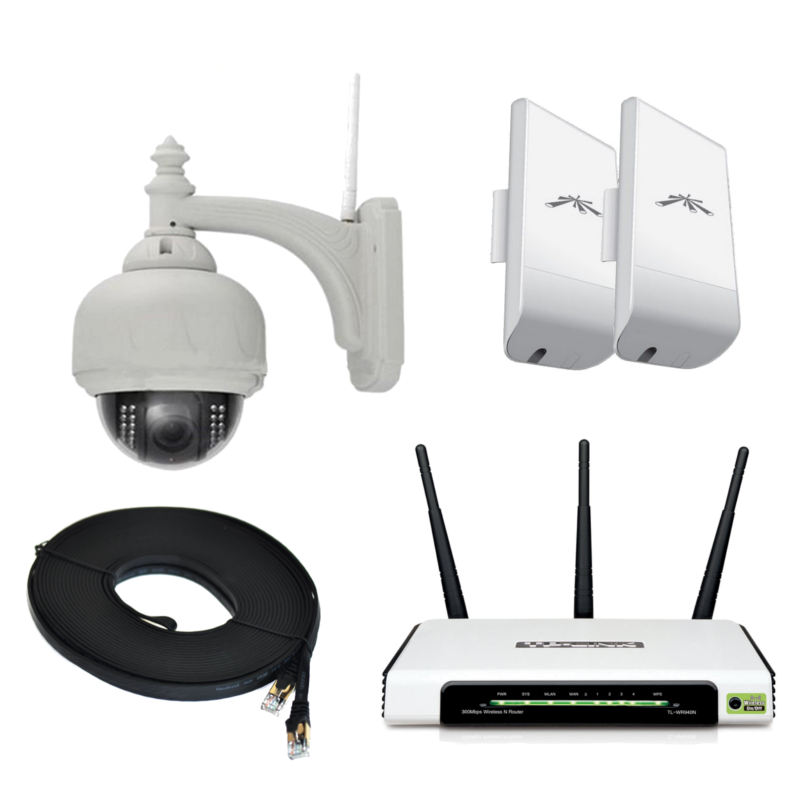
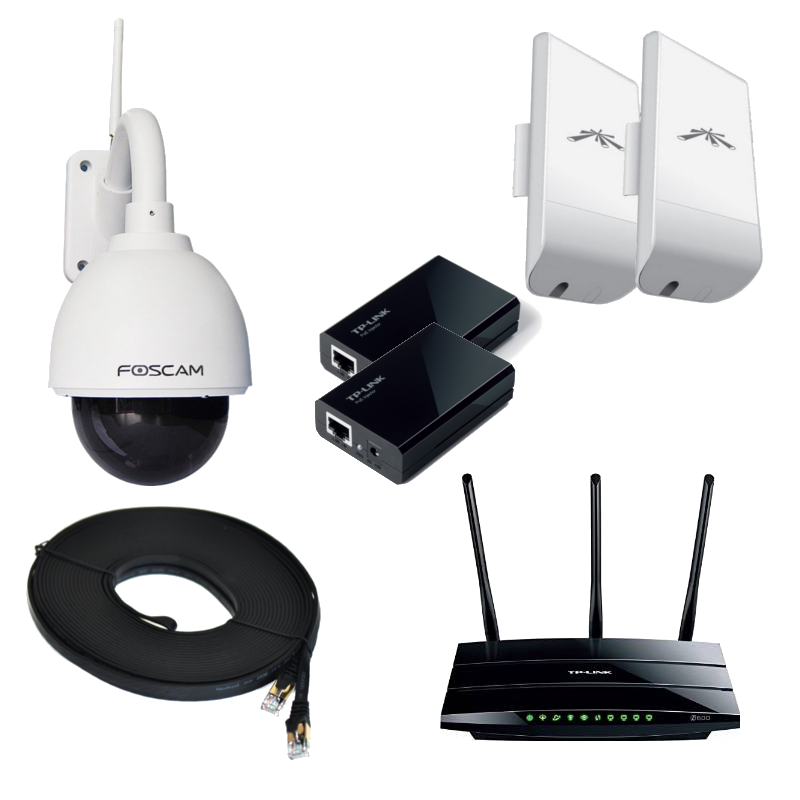
updated long range calving camera system

Changed region(s): [[0.0625, 0.0312, 0.9688, 0.9375], [0.9062, 0.0938, 0.9375, 0.125], [0.875, 0.0625, 0.9062, 0.0938]]

diff --git a/_layouts/product.html b/_layouts/product.html
@@ -34,8 +34,9 @@ layout: default
 					<span> Tip: Mouse over the product to see a large picture.</span>
 				</small>
 			-->
+				<div class="fb-like row" data-href="{{ page.url | prepend: site.url }}" data-layout="standard" data-action="like" data-show-faces="true" data-share="true"></div>
 			</div>
-			<div class="fb-like" data-href="{{ page.url | prepend: site.url }}" data-layout="standard" data-action="like" data-show-faces="true" data-share="true"></div>
+			<br/>
 			<div class="row">
 				{% for image in page.images %}
 				<div class="col-md-3">
@@ -63,7 +64,6 @@ layout: default
 			</script>
 			<br/>
 			<h3>Product Summary</h3>
-			<br>
 			<div>
             {{ content }}
         	</div>

diff --git a/products/long-range-ip-calving-camera-system.md b/products/long-range-ip-calving-camera-system.md
@@ -12,16 +12,20 @@ description: Long range IP calving camera system are used when there is a long d
 
 images:
    - title: IP Camera with Pan\Tilt & Zoom functionality.
-     name: ip-camera.jpg
+     name: foscam-ptz-ip-camera.jpg
    - title: Long range Directional Antennas.
      name: two-directional-antennas.jpg
    - title: Connect equipement with ethernet cables.
      name: 20-ethernet-cable.jpg
    - title: Router to connect system to PC or Laptop.
-     name: router.jpg
+     name: tp-link-router.jpg
+   - title: POE Injectors for powering the antennas
+     name: poe-injector.png
 ---
 
-This IP Calving Camera System is ideal when there is a long distance between the shed and the house. It combines a calving camera with two wireless directional antennas. The maximum range of this is system 5km.
+This Calving Camera System is ideal if you want to monitor your animals remotely from the comfort of your own home. This system is compatible with any PC, Laptop, Tablet or Smartphone. The Camera has Pan/Tilt & Zoom (PTZ) functionality that gives you much greater viewing coverage of your Shed.
+
+The system is ideal when there is a long distance between your House and your Shed. It makes a wireless connection to the Shed with two IP Directional Antennas. The maximum range of this is system 2km with a clear line of sight.
 
 <figure>
   <img src="{{site.baseurl}}/img/connecting-buildings-colored.png" alt="Connecting buildings with WI-FI" style="width: 100%;">
@@ -33,21 +37,36 @@ If you want to get more information about how to set this type of system see thi
 
 The IP Camera has <a href="{{site.baseurl}}/ptz/2015/04/26/ptz-calving-camera.html">PTZ</a> functions so you can scan 360 degree around the shed. It also has high quality video, so enjoy clear uninterrupted camera footage from your laptop, computor, or smart phone.
 
+This system can be easily <a href="{{site.baseurl}}/internet/2015/08/08/viewing-calving-camera-over-the-internet.html">connected to the Internet</a> which allows you to connect to the camera from anywhere on the world, with an Internet connection.
+
+###Features
+- High Quality Video
+- Nightvision
+- Wifi
+- Pan/Tilt & Zoom
+- Long distance wireless conectivity
+- Can be connected to the Internet
+
 
 ###Connection Diagram
+Here is a connection diagram of how the full Calving Camera System is connected together.
 <figure>
   <img src="{{site.baseurl}}/img/ip-camera-antenna-connection-diagram.png" alt="IP Calving Camera System with Directional Antennas">
   <figcaption style="text-align: center;">IP Calving Camera System with Directional Antennas</figcaption>
 </figure>
 <br>
 
+Simply, connect the IP Camera to one of the Directional Antennas with an Ethernet cable. On the house side, connect the other Antenna to your wifi Router. Both Directional Antennas are powered with the POE injectors. 
+
 ###Equipment
 
 - 1 IP PTZ Outdoor Camera
 - 2 Wireless Directional Antennas
+- 2 POE Injectors
 - 2 20 meter Ethernet Cables
 - 1 10 meter Ethernet Cable
-- 1 Router/Modem
+- 1 Router/Modem (optional)
+
 
 <div class="pull-right">
   <b>Buy Now:</b>
